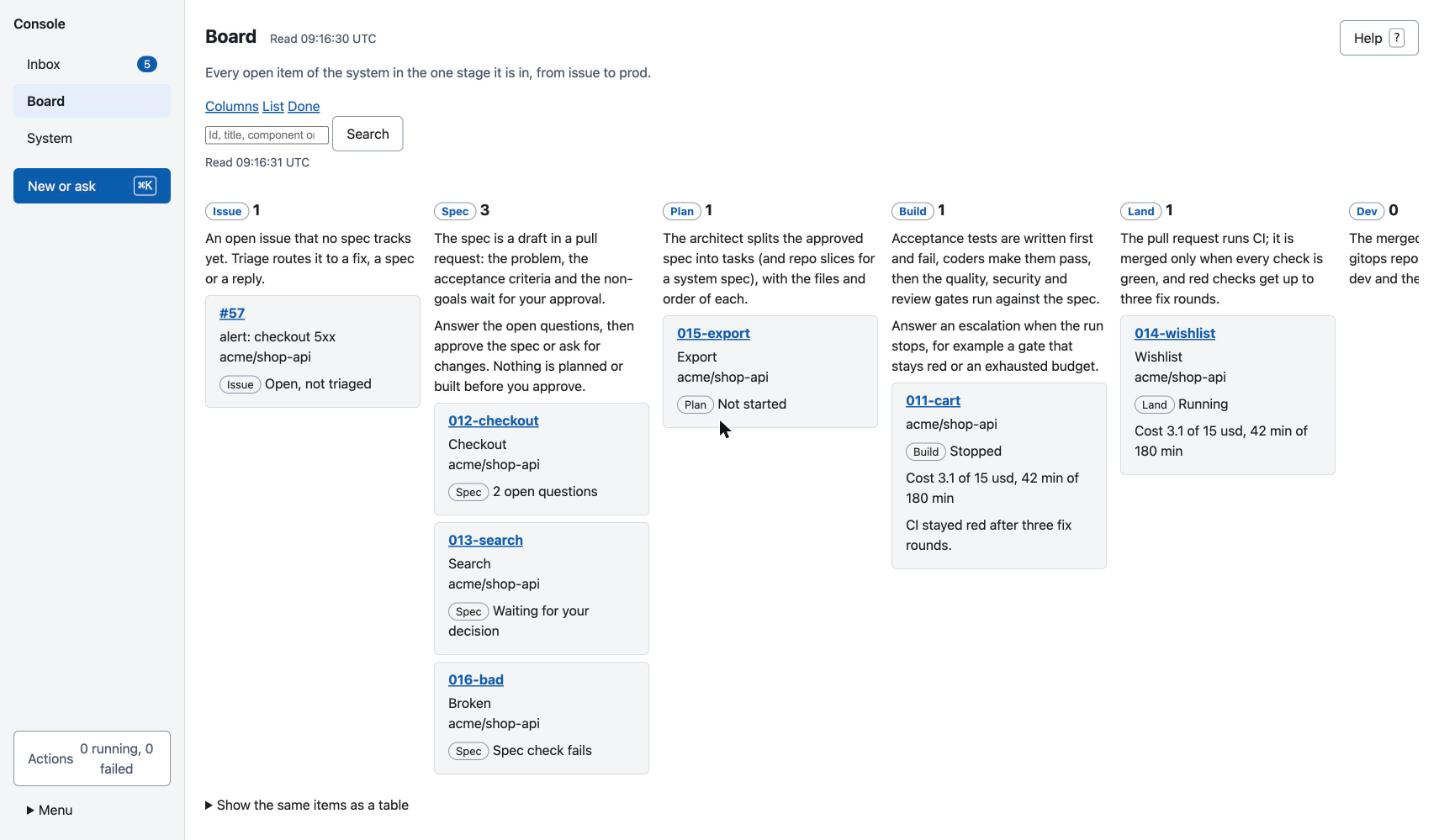
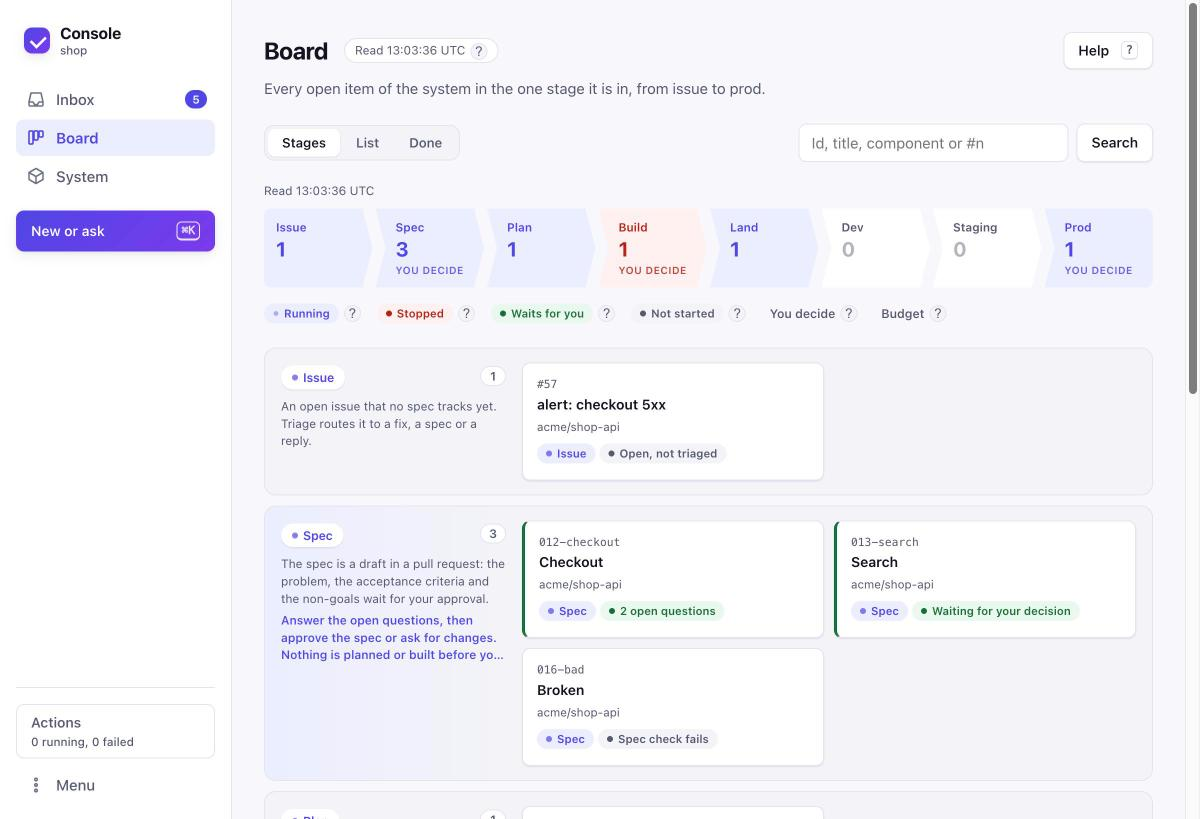
docs(122): new console screenshots for the guide
Retake every guide screenshot from the demo system of the tests (the
Inbox with a promotion, the Board strip, a stopped run, System as a
tree, help, the palette, the guide) and add two: changing a
component's APIs in the drawer, and How it works. Also: a budget line
keeps USD in capitals, and a form opened from a row previews at once
only for a removal.

diff --git a/scripts/cplat/console/static/console.css b/scripts/cplat/console/static/console.css
@@ -536,7 +536,7 @@ label { font-weight: 550; font-size: 0.88rem; }
 .guide-body pre { overflow-x: auto; max-width: 100%; background: var(--surface); padding: var(--s3); border-radius: var(--radius); border: 1px solid var(--line); }
 .guide-commands .guide-cmd { padding: var(--s2) 0; border-bottom: 1px solid var(--line); }
 .guide-commands .guide-cmd p { margin-bottom: var(--s1); }
-.guide-body figure img { aspect-ratio: 1439 / 840; object-fit: contain; width: 100%; }
+.guide-body figure img { aspect-ratio: 1200 / 819; object-fit: contain; width: 100%; }
 .guide-stages .guide-stage { padding: var(--s2) 0; border-bottom: 1px solid var(--line); }
 .guide-stages .guide-stage p { margin-bottom: var(--s1); }
 

diff --git a/scripts/cplat/console/static/console.js b/scripts/cplat/console/static/console.js
@@ -411,8 +411,8 @@
     drawerOpener = opener || null;
     var empty = $all("input:not([type='hidden']), select", form).filter(function (n) { return !n.disabled && !n.value; })[0];
     (empty || $("input:not([type='hidden']), select", form) || form).focus();
-    // A preview needs a change: opened with only an action or an environment, the form waits for the first choice
-    if (Object.keys(prefill).some(function (k) { return k !== "action" && k !== "env"; })) { requestPreview(form); }
+    // Only a removal is a whole change when the form opens; any other form waits for the first choice before it previews
+    if (prefill.action === "remove") { requestPreview(form); }
     return true;
   }
 

diff --git a/scripts/cplat/console/board.py b/scripts/cplat/console/board.py
@@ -72,7 +72,8 @@ def _run_info(run: dict | None) -> dict:
         parts.append(("minutes unknown" if used.get("minutes") is None else f"{_num(used['minutes'])} min") + f" of {_num(limit['minutes'])} min")
     escalation = run.get("escalation") or {}
     why = (escalation.get("summary") or escalation.get("reason") or "") if run.get("stopped") else ""
-    return {"budget": ", ".join(parts).capitalize(), "why": one_line(why)}
+    line = ", ".join(parts)
+    return {"budget": line[:1].upper() + line[1:], "why": one_line(why)}   # not capitalize(): it would lowercase USD
 
 
 def _spec_stage(row: dict, runs: list[dict]) -> tuple[str | None, bool, dict | None]:

diff --git a/tests/cplat/test_console_polish.py b/tests/cplat/test_console_polish.py
@@ -196,3 +196,8 @@ def test_the_palette_keeps_the_forms_as_disclosures(tmp_path):
     ctx = SimpleNamespace(data=lambda name: model if name == "model" else None, repo_dir=tmp_path)
     html = system_page.model_forms(ctx)
     assert html.count("<details") == 5 and html.count('data-form="') == 5 and 'id="form-' not in html
+
+
+def test_a_budget_line_keeps_usd_in_capitals():
+    info = board._run_info({"budget": {"used": {"cost": 3.1, "minutes": 42}, "limit": {"cost": 15, "minutes": 180}}})
+    assert info["budget"] == "Cost 3.1 of 15 USD, 42 min of 180 min"

diff --git a/docs/console.md b/docs/console.md
@@ -44,7 +44,7 @@ Nothing runs before you click the button (or press its key: `a` approve, `p` pro
 
 ### Board: where every change is
 
-![The Board: one column per stage, a stopped run with its reason](img/console/board.jpg)
+![The Board: the stage strip with its counts (red: a run stopped there), the card colours, and each stage as a row](img/console/board.jpg)
 
 A strip on top shows the eight stages from **Issue** to **Prod** with the number of items in each (a stage with a stopped run is red); select one to jump to it. Below, each stage is a row and every open item sits in exactly one; the cards of a stage wrap, so nothing scrolls sideways, and an empty stage is one slim line. **Spec**, **Build** and **Prod** are decision stages ("you decide"). Select a stage name to see what happens in that stage, which agents work there, the commands, and what you decide. Arrow keys move between cards: left and right inside a stage, up and down to the next stage with cards. A run card shows its budget used of its limit, and a stopped run says why in one line.
 
@@ -56,11 +56,13 @@ Open a card for its detail: the stage strip, one line per repo slice, every acce
 
 ### System: what it is made of and where it runs
 
-![System: versions and states per environment, promote in place, parts and relations](img/console/system.jpg)
+![System as a tree: a component opened for its repo and relations, versions and states per environment, promote in place](img/console/system.jpg)
 
 The page shows the system as one tree: **Components**, **Libraries**, **Resources** and **APIs**, each item a row. A component or resource row has one column per environment, headed by its promotion rule and policy. A cell shows the running version and its state: `pinned`, `healthy`, `verified` (smoke passed), `NOT VERIFIED`, `alert`, or `unknown` when the cluster cannot be read; a legend under the table explains each one. A verified cell before a manual environment offers **Promote**, and a verified version newer than the last release offers **Cut release**; both open the decision with its consequence first.
 
 Open a row with its arrow for its repo, the APIs it provides and consumes, the resources it uses and the changes it offers. Every change starts where its item is: **+ Add component**, **+ Add resource** and **+ Add API** on their group, **Remove** and **Change APIs** in a row, **Change rules** on an environment, **New system** next to the system name. The form opens at the right edge, filled in, with selection lists for what already exists (`/component:add|remove`, `/component:set --provides|--consumes`, `/resource:add|remove`, `/system:set --env`, `/system:new`). Each change previews the exact command, the `system.yaml` diff and the renderer's checks on a scratch copy before anything runs; an invalid value names the key and the rule. The same forms are in the palette (`⌘K`).
+
+![Change APIs on shop-api: the form opens at the right, filled in, with the command and the system.yaml diff](img/console/system-change.jpg)
 
 ### Autonomy: the System tab for what runs on its own
 
@@ -77,6 +79,8 @@ Every page has a one-line answer under its title and a **Help** button (or `?`).
 ![Help on the System page](img/console/help.jpg)
 
 ![The guide inside the console: contents, this text with its screenshots, the process and every command](img/console/guide.jpg)
+
+![How it works: the eight stages, the three where you decide, and every term by topic](img/console/how-it-works.jpg)
 
 ## Stages
 
